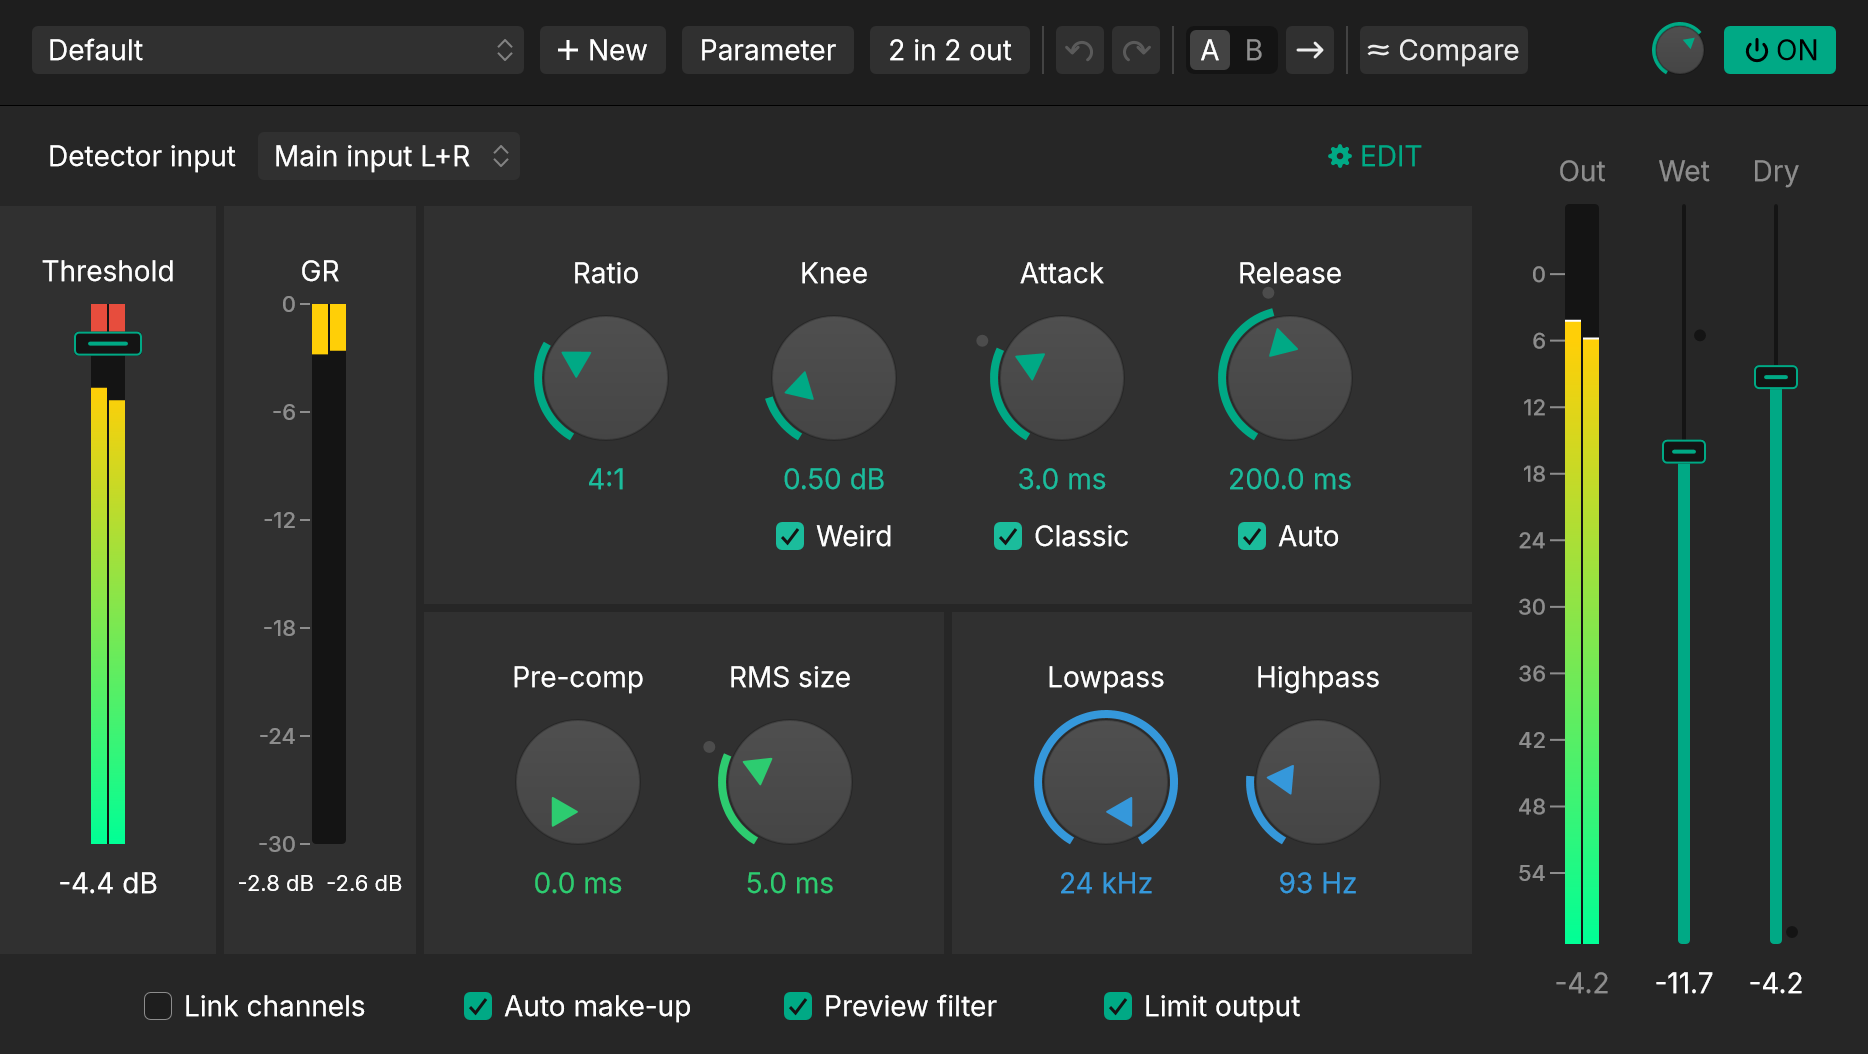
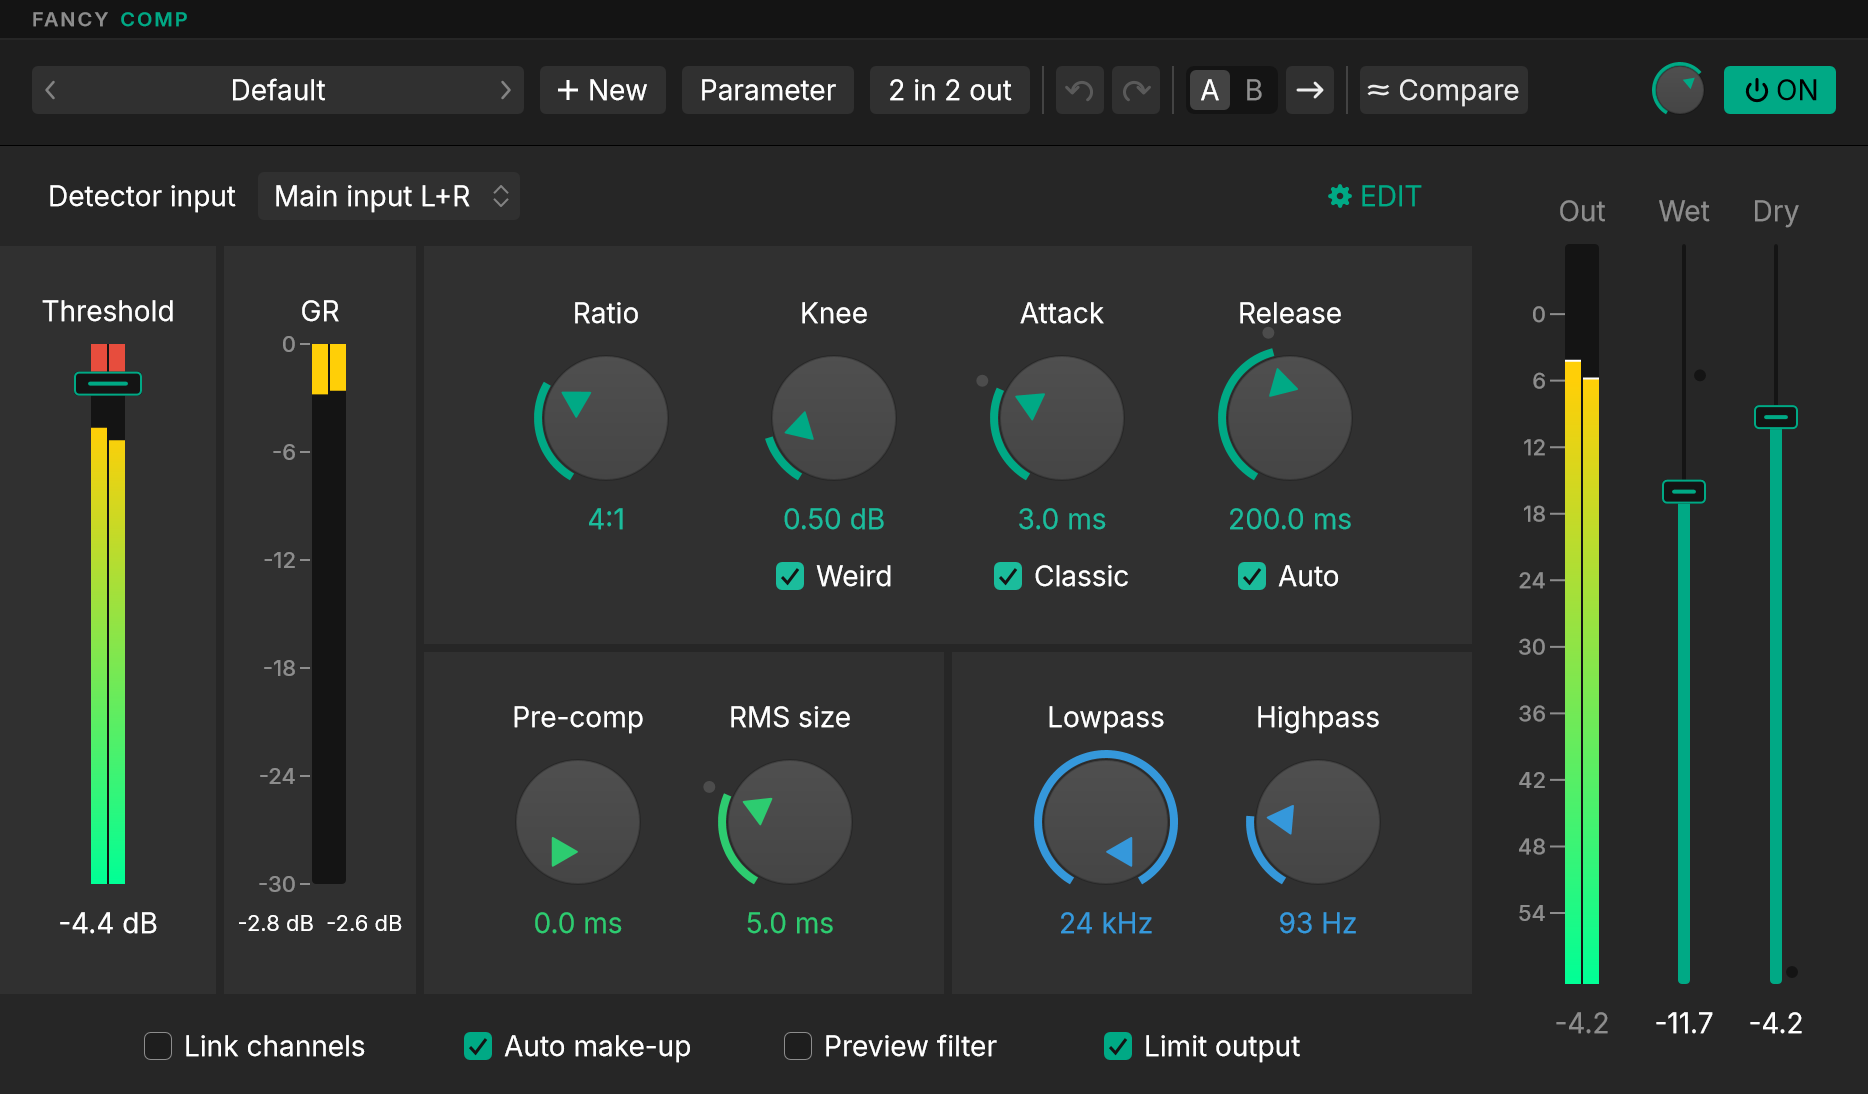
Version 1.3.0: README lists the five new plugins and Kicker's Sub mode; screenshots refreshed from run 43415017352

diff --git a/README.md b/README.md
@@ -1,10 +1,10 @@
 # Fancy Plugs
 
-Nine VST3 effects for Windows 10 and 11 (x64), built for personal use and signed off by ear in REAPER. Version **1.2.0**.
+Fourteen VST3 effects for Windows 10 and 11 (x64), built for personal use and signed off by ear in REAPER. Version **1.3.0**.
 
 | Plugin | What it does |
 |---|---|
-| Fancy Kicker | Parallel low-frequency enhancer: one big Freq knob, Wet and Dry |
+| Fancy Kicker | Low-end enhancer: Boost (one big Freq knob, Wet and Dry) or, new in 1.3.0, Sub, which adds an octave or two below |
 | Fancy Exciter | Parallel high-frequency exciter with clip boost and a mix-back control |
 | Fancy Comp | Compressor with a Threshold fader over the input meter, a filtered detector, a sidechain and an output limiter |
 | Fancy EQ | Up to 16 bands with draggable handles, a live analyzer and, new in 1.2.0, dynamic bands |
@@ -13,8 +13,24 @@ Nine VST3 effects for Windows 10 and 11 (x64), built for personal use and signed
 | Fancy MultiComp | Up to 8 bands of compression behind flat-summing crossovers and, new in 1.2.0, upward compression |
 | Fancy FIR | Spectral processor: drawable EQ, Gate, Compressor, noise Subtract and Convolve, with adaptive noise tracking in 1.2.0 |
 | Fancy Gate | Gate with a filtered detector, a sidechain and a MIDI trigger output |
+| Fancy Limit | New in 1.3.0: true-peak brickwall limiter with lookahead, three styles, Auto release, a loudness meter and dither |
+| Fancy DS | New in 1.3.0: de-esser with a relative threshold, split or wide cuts, minimum- or linear-phase split filters and a history display |
+| Fancy DS-Mini | New in 1.3.0: one-knob de-esser with voice and instrument profiles, on the same engine as Fancy DS |
+| Fancy Sature | New in 1.3.0: saturator with Tape, Tube, Transistor and Clip curves, even/odd Character, Tone, oversampling and auto gain |
+| Fancy Room | New in 1.3.0: algorithmic reverb from small room to long hall, with Freeze, tempo-synced pre-delay, a send mode and ducking |
 
-## What's new in 1.2.0
+## What's new in 1.3.0
+
+- **Five new plugins:** Fancy Limit, Fancy DS, Fancy DS-Mini, Fancy Sature and Fancy Room (table above).
+- **Sub mode in Fancy Kicker.** A Boost | Sub switch at the top. Sub tracks the kick's pitch and adds a clean sub an octave or two below, under Cutoff. Boost sounds exactly as before.
+- **Preset browser in every plugin**, with categories, user folders, favourites and search (see "Choosing presets" below), and the ‹ › arrows on the preset name.
+- **Free resizing.** Drag a window's edge or corner to resize it, from 100 % to 200 % of its size; the layout scales with it.
+- **Title strip.** Every window shows the plugin's name at the top.
+- **Listen switches are temporary.** Comp's and Gate's Preview filter and FIR's Listen switches now turn off when you close the window and are never saved, like the new plugins' Listen. A project saved with one of them on opens with it off; nothing else about old projects changes.
+
+Projects saved with 1.0, 1.1 and 1.2 load and sound exactly as before.
+
+## What was new in 1.2.0
 
 - **Undo, redo, A/B and Compare in every plugin.** There are 100 steps of undo and redo (Ctrl+Z and Ctrl+Y), and two settings slots, A and B, with a copy button. Compare matches the loudness of the dry signal so you can judge the processing at equal level.
 - **Styled menus, dropdowns, tooltips, typed values and dialogs** that match the rest of the design, instead of the plain Windows ones.
@@ -31,7 +47,7 @@ The screenshots below are rendered by CI from the current build, at 2× scale.
 
 ### Fancy Kicker
 
-<img src="docs/images/kicker.png" width="392" alt="Fancy Kicker">
+<img src="docs/images/kicker.png" width="392" alt="Fancy Kicker in Boost mode"> <img src="docs/images/kicker-sub.png" width="392" alt="Fancy Kicker in Sub mode">
 
 ### Fancy Exciter
 
@@ -70,6 +86,26 @@ Shown in Subtract mode with Adaptive tracking. The dashed line is the tracked no
 ### Fancy Gate
 
 <img src="docs/images/gate.png" width="740" alt="Fancy Gate">
+
+### Fancy Limit
+
+<img src="docs/images/limit.png" width="760" alt="Fancy Limit">
+
+### Fancy DS
+
+<img src="docs/images/ds.png" width="760" alt="Fancy DS">
+
+### Fancy DS-Mini
+
+<img src="docs/images/dsmini.png" width="392" alt="Fancy DS-Mini">
+
+### Fancy Sature
+
+<img src="docs/images/sature.png" width="760" alt="Fancy Sature">
+
+### Fancy Room
+
+<img src="docs/images/room.png" width="760" alt="Fancy Room">
 
 ## Installing
 
